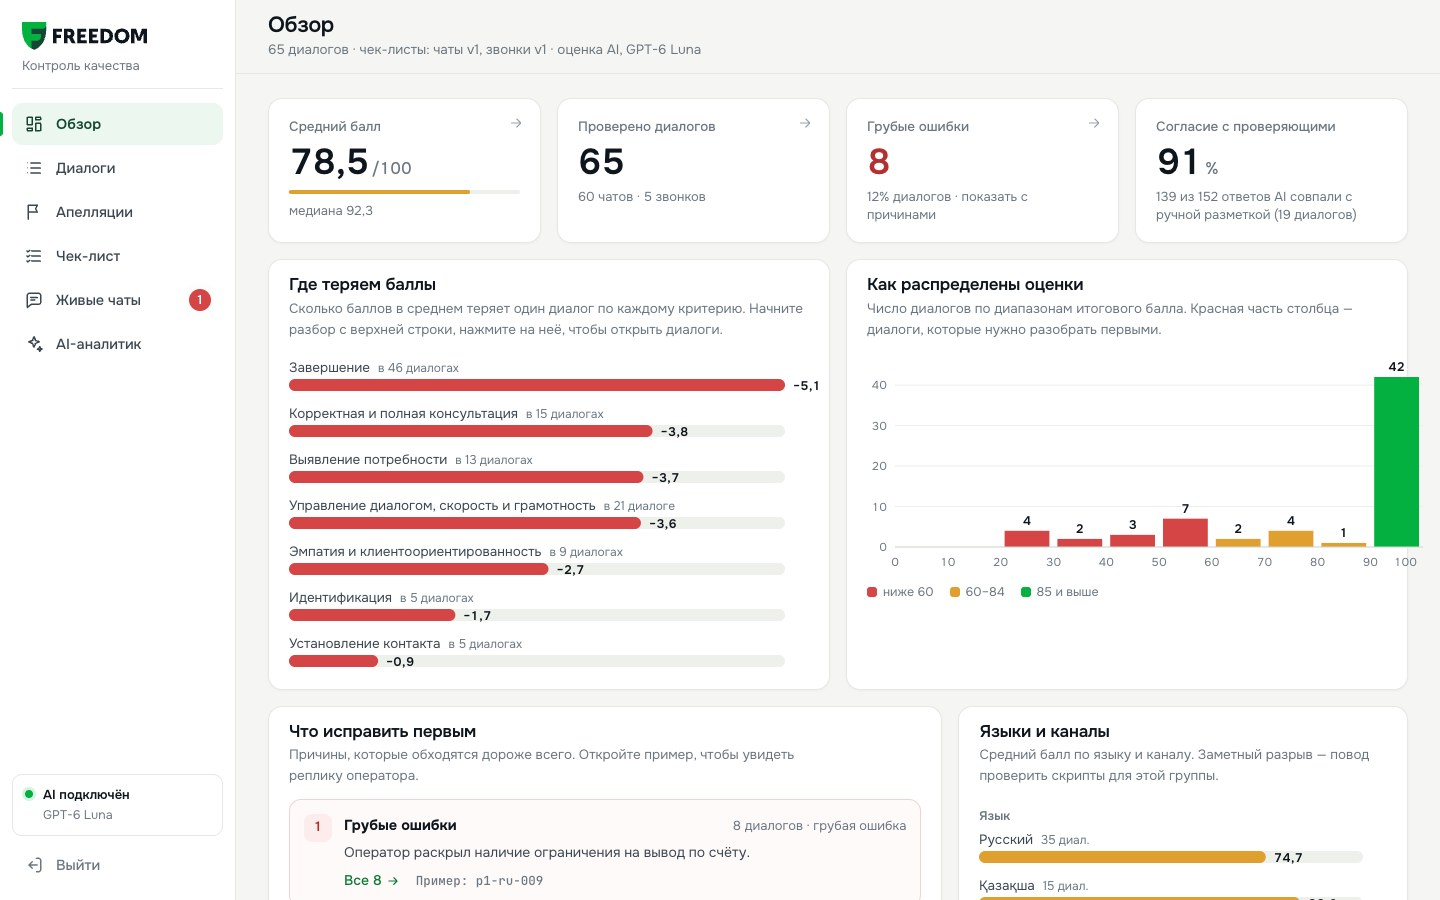
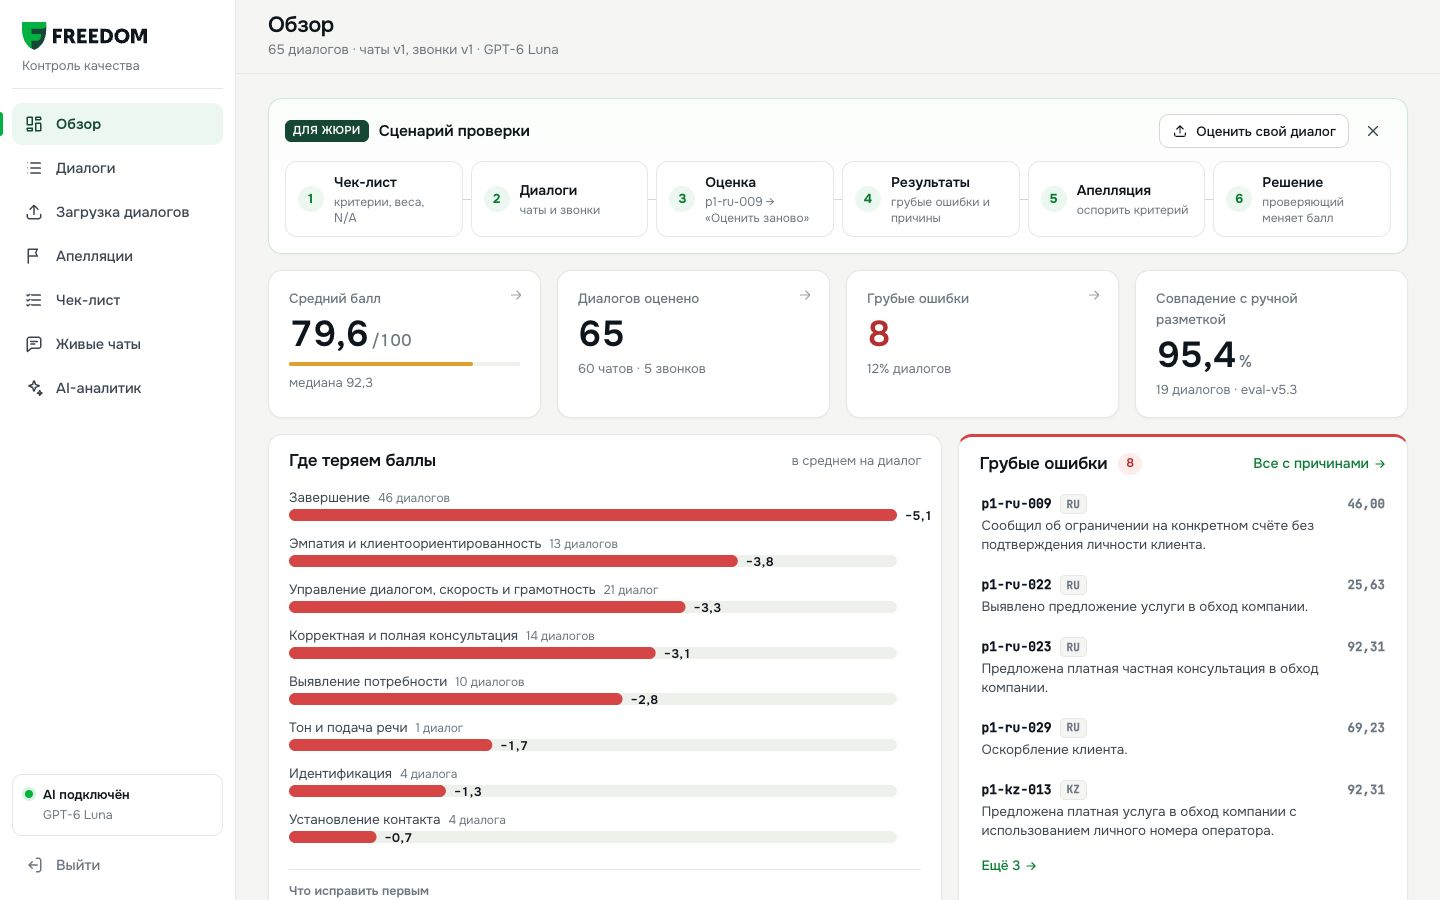
docs(d): refresh three README stills after the admin round 1
Why: the overview, checklist editor and dialog card stills showed the
pre-round-1 layout, so the README described screens the jury will not see.
What:
- docs/media/admin-overview.jpg: Обзор with the «Для жюри · Сценарий
  проверки» panel, four KPIs, «Где теряем баллы», «Грубые ошибки»
- docs/media/checklist-editor.jpg: the compact one-line-per-criterion editor
- docs/media/dialog-card.jpg: p1-ru-009 with the score first and «Как
  посчитан итог»
- captions and alt text updated
Captured at 1440x900 in headless Chrome from a local mirror of main (AI
status shown as connected, as on production; no model calls).
How verified: opened each still; image paths resolve.

diff --git a/README.md b/README.md
@@ -93,12 +93,12 @@ The card puts the score first, then «Как посчитан итог»: one sl
 
 **Where:** Диалоги → any row (analysis card); Обзор; Диалоги → «Грубые ошибки».
 
-<img src="docs/media/dialog-card.jpg" alt="Analysis card with transcript, score and deduction reasons" width="720">
+<img src="docs/media/dialog-card.jpg" alt="Analysis card for p1-ru-009: timeline, transcript, score 46 with a gross error and «Как посчитан итог»" width="720">
 
 <table>
 <tr>
 <td width="50%"><img src="docs/media/gross-errors.jpg" alt="List of dialogs with gross errors and the evidence line"><br><sub>Грубые ошибки: every flagged dialog with the reason and the operator line</sub></td>
-<td width="50%"><img src="docs/media/admin-overview.jpg" alt="Admin overview with KPIs and points lost per criterion"><br><sub>Обзор: KPIs, where points are lost, what to fix first</sub></td>
+<td width="50%"><img src="docs/media/admin-overview.jpg" alt="Admin overview with the jury scenario panel, KPIs, points lost per criterion and gross errors"><br><sub>Обзор: «Для жюри» panel, four KPIs, «Где теряем баллы», «Грубые ошибки»</sub></td>
 </tr>
 </table>
 
